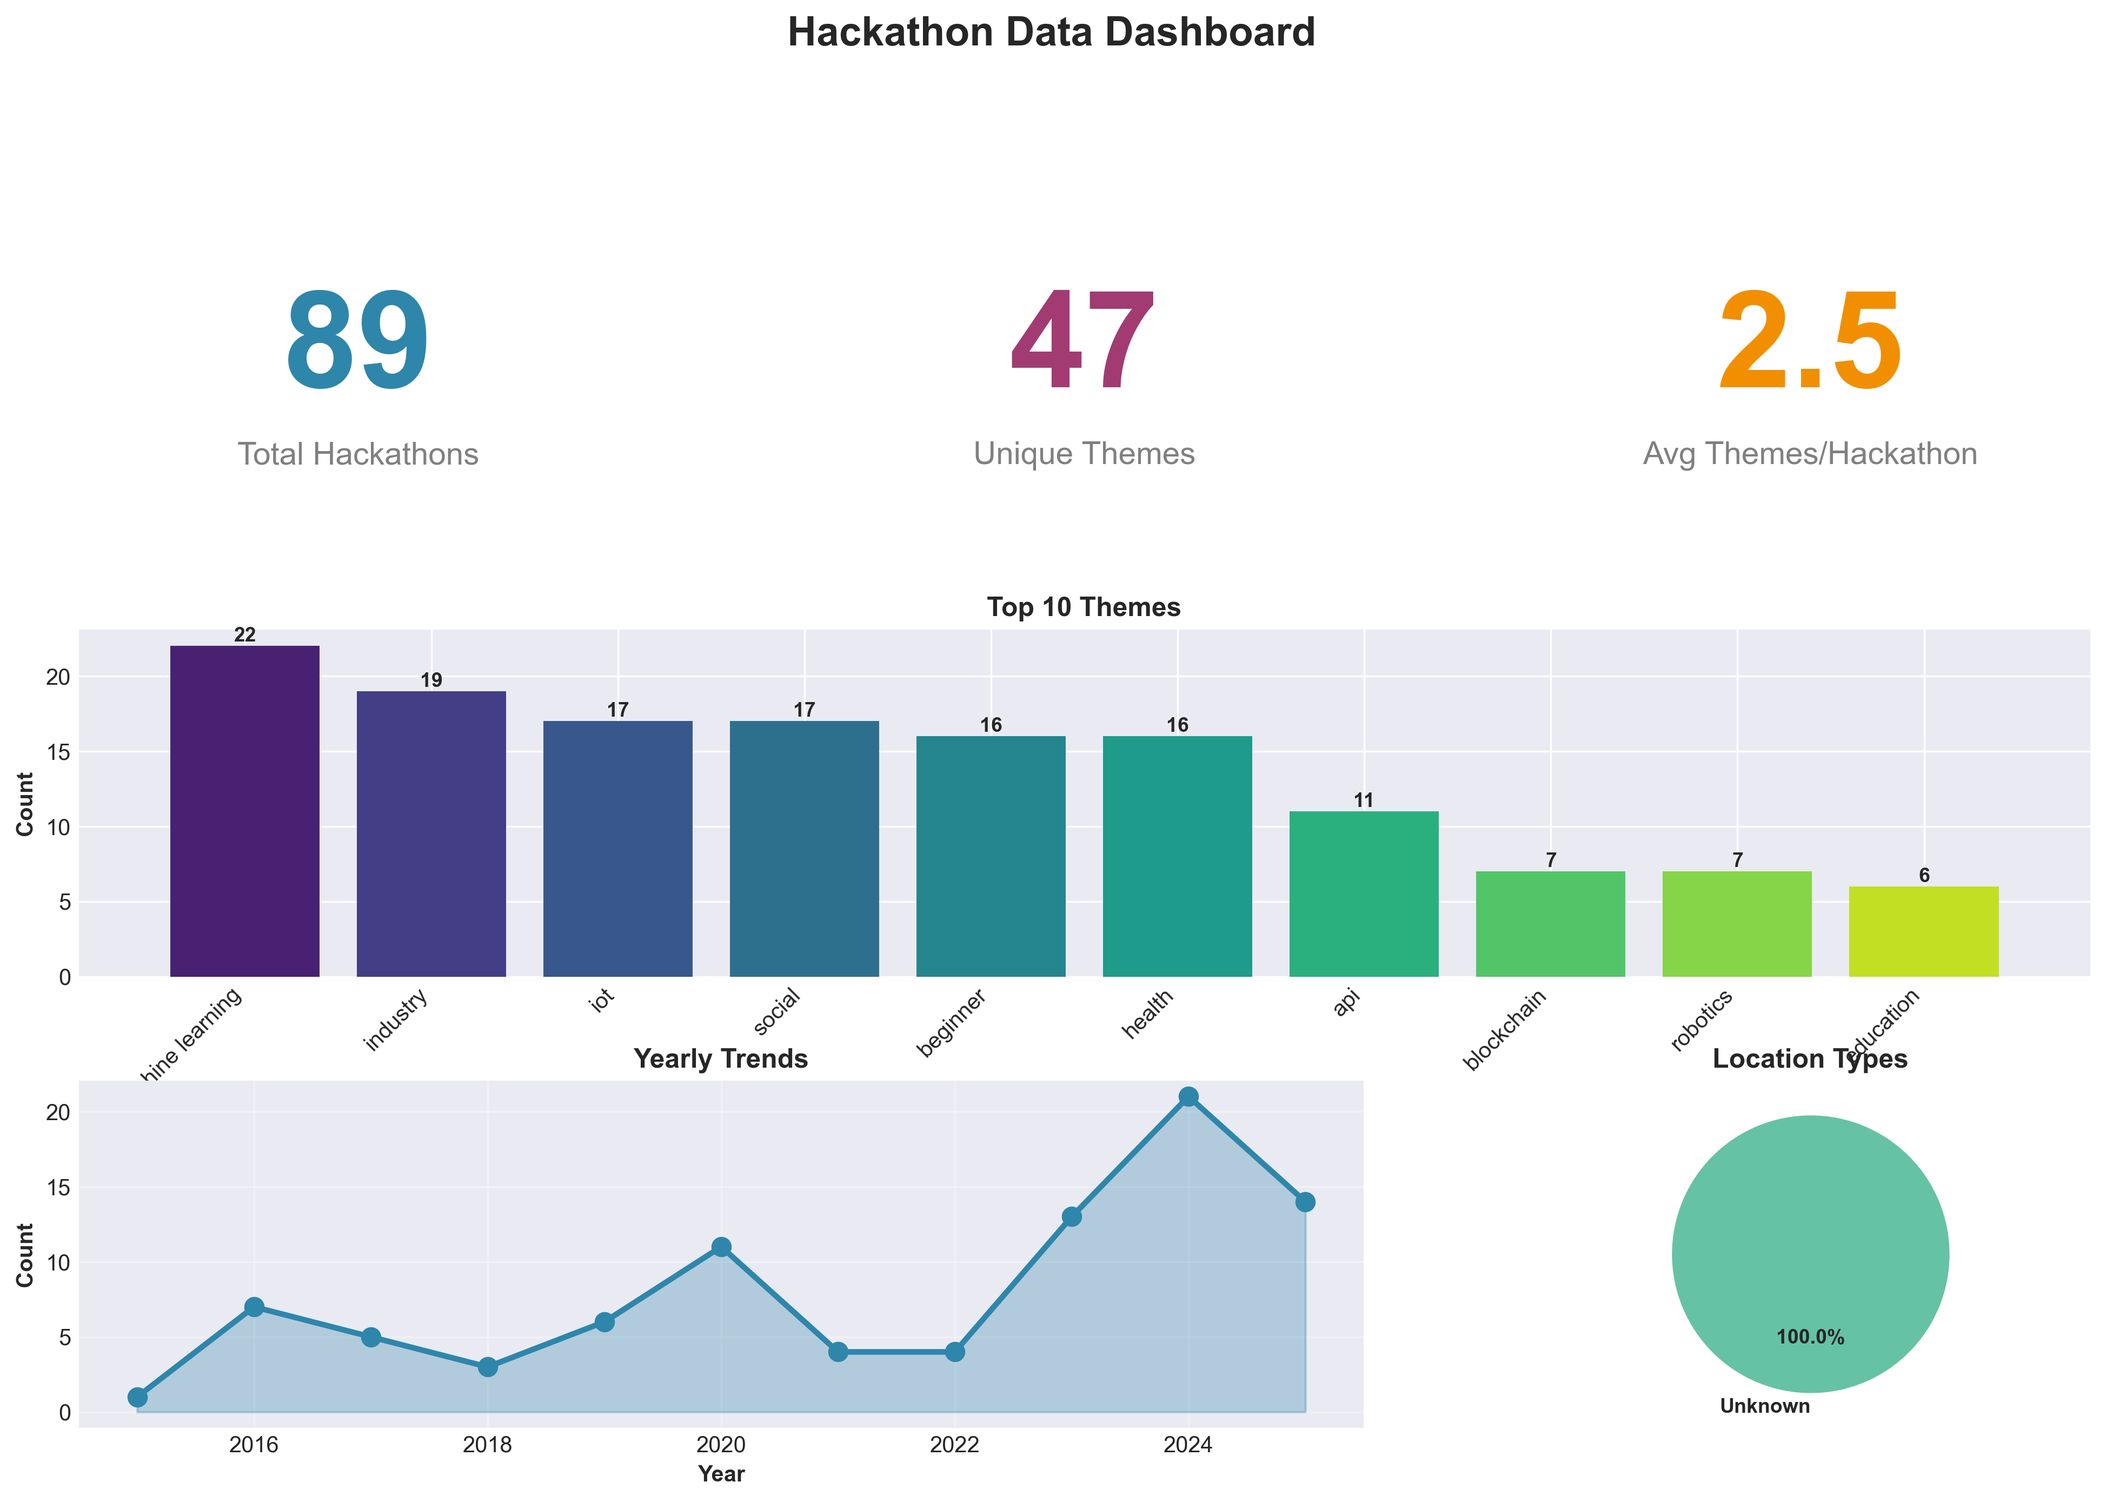
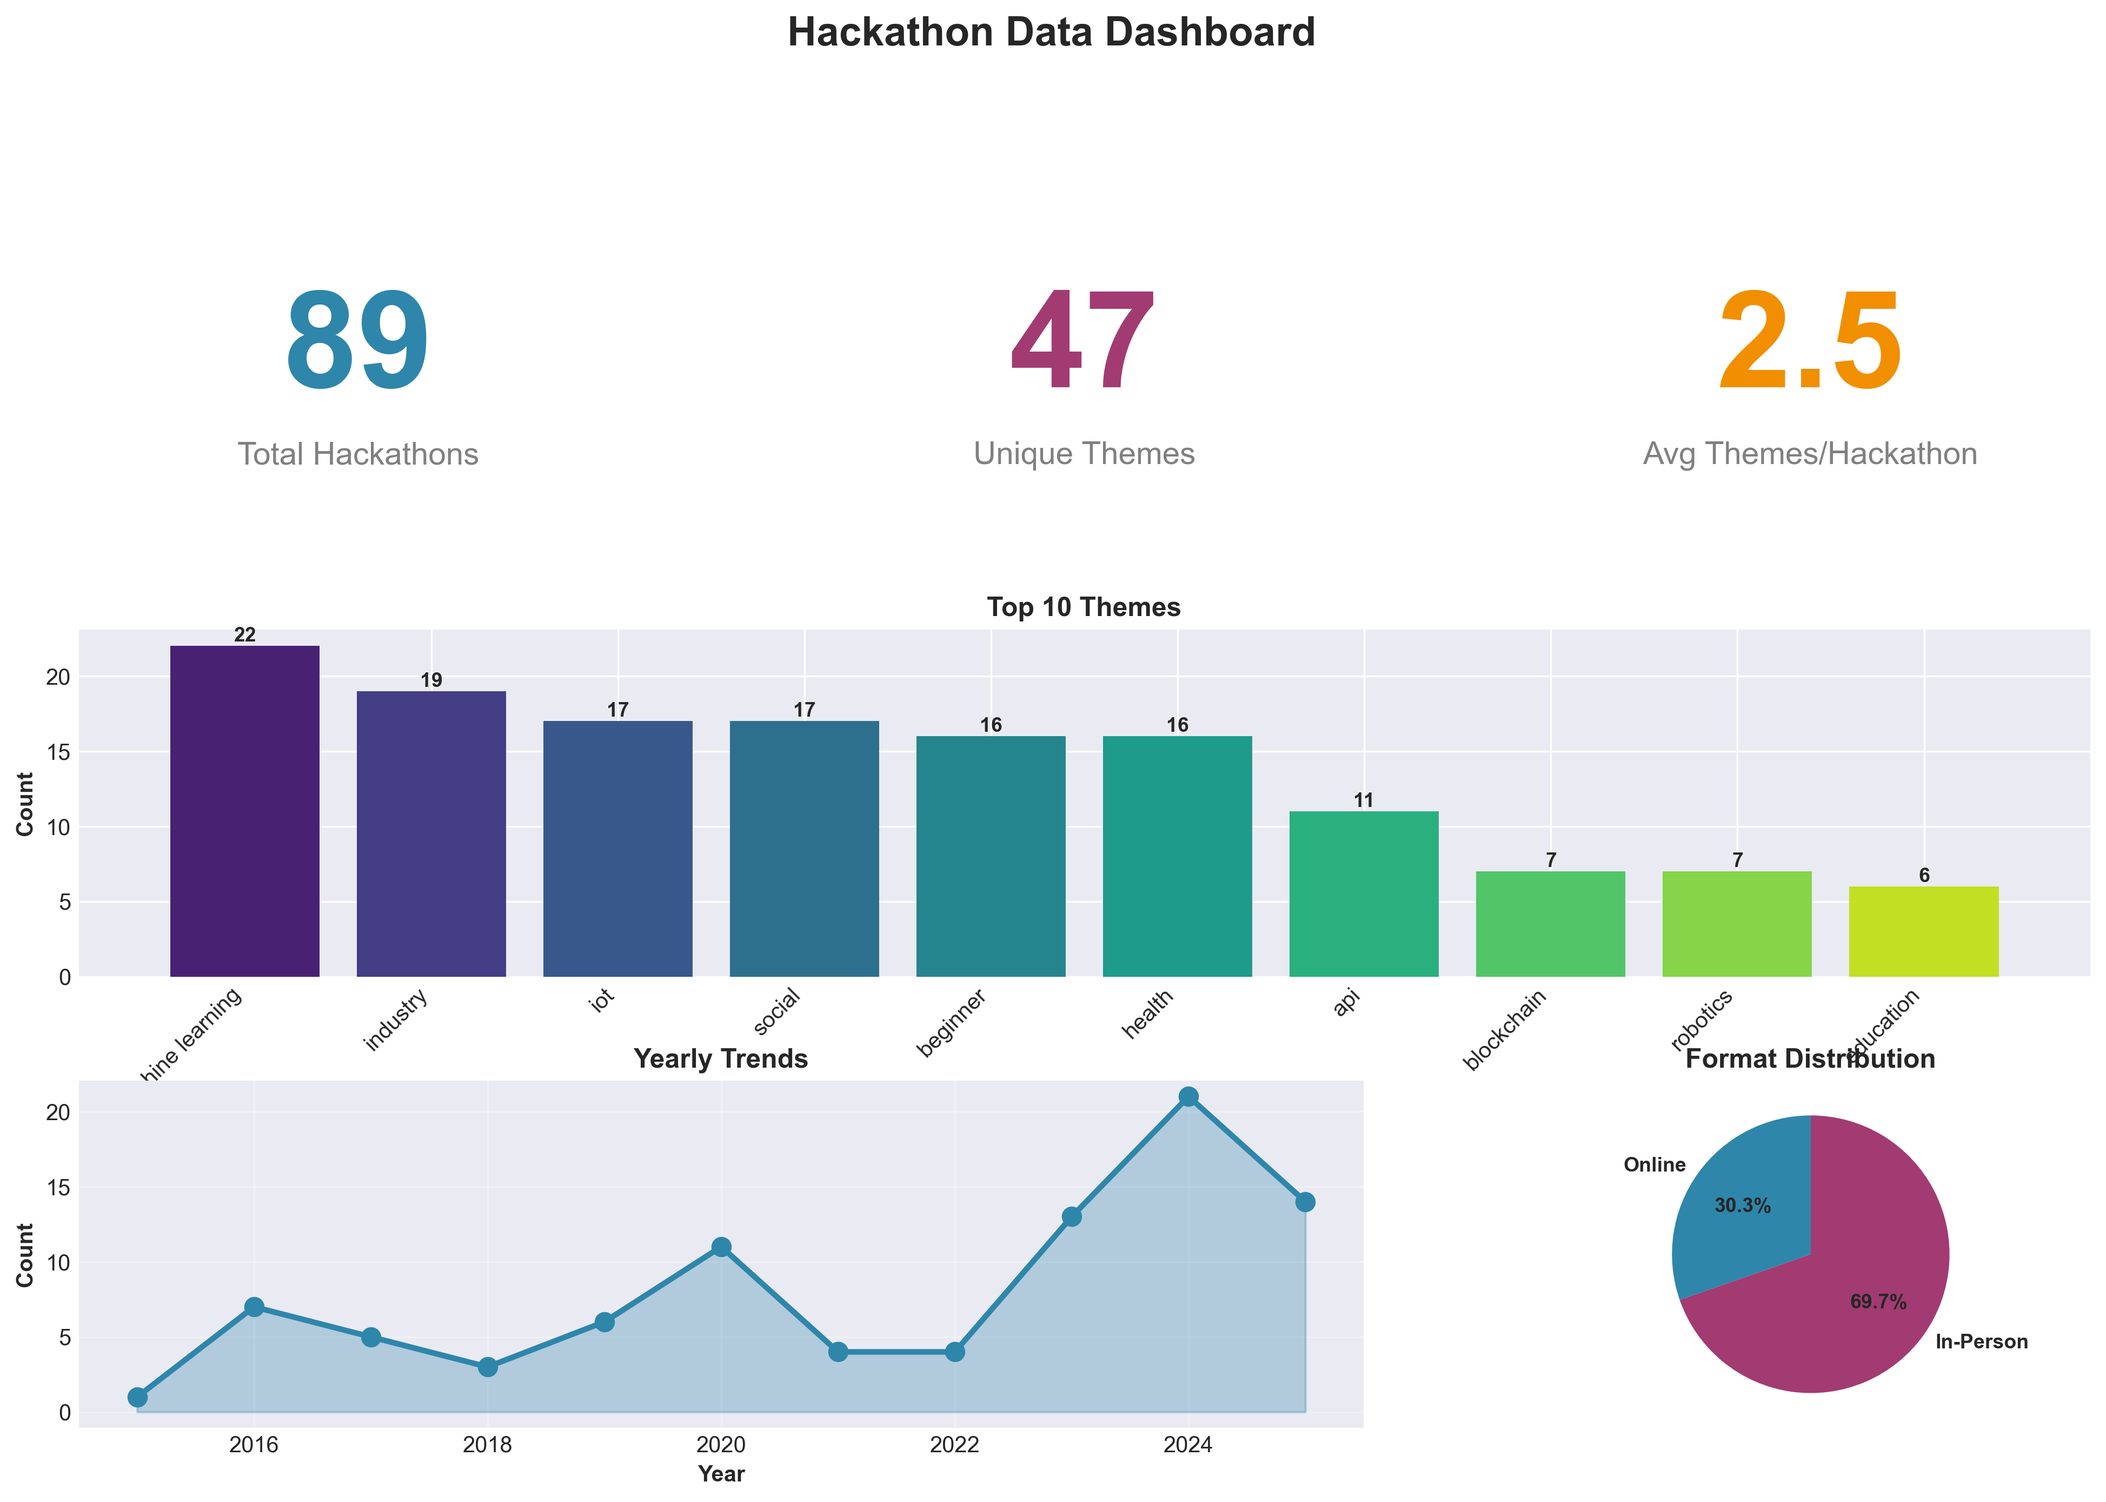
init

Changed region(s): [[0.7766, 0.7432, 0.963, 0.96], [0.8077, 0.6813, 0.932, 0.7123]]

diff --git a/visualize_data.py b/visualize_data.py
@@ -87,10 +87,10 @@ class HackathonVisualizer:
         insights['peak_months'] = self._plot_monthly_distribution(output_dir)
         insights['charts_generated'].append('03_monthly_distribution.png')
 
-        # 4. Location Type Distribution
-        print("  4. Location type chart...")
-        insights['location_insights'] = self._plot_location_types(output_dir)
-        insights['charts_generated'].append('04_location_types.png')
+        # 4. Geographic Distribution
+        print("  4. Geographic distribution chart...")
+        insights['geographic_insights'] = self._plot_geographic_distribution(output_dir)
+        insights['charts_generated'].append('04_geographic_distribution.png')
 
         # 5. Theme Combinations
         print("  5. Theme combinations chart...")
@@ -197,48 +197,109 @@ class HackathonVisualizer:
             'slowest_month': monthly_data.idxmin()
         }
 
-    def _plot_location_types(self, output_dir):
-        """Plot location type distribution"""
-        # Count location types from original data (more accurate)
-        location_counter = Counter()
+    def _plot_geographic_distribution(self, output_dir):
+        """Plot geographic distribution and online vs in-person split"""
+        # Analyze locations
+        online_count = 0
+        in_person_count = 0
+        countries = Counter()
+        cities = Counter()
+
         for h in self.hackathons:
-            loc_type = h.get('location_type', 'Unknown')
-            if loc_type:
-                location_counter[loc_type] += 1
+            location = h.get('location', '').strip()
 
-        if not location_counter:
-            location_counter['Unknown'] = len(self.hackathons)
+            if location.lower() == 'online':
+                online_count += 1
+            elif location.lower() == 'in-person' or location:
+                in_person_count += 1
+                # Extract country/city info
+                if location.lower() != 'in-person':
+                    parts = [p.strip() for p in location.split(',')]
+                    if len(parts) >= 2:
+                        country = parts[-1]
+                        city = parts[0]
+                        countries[country] += 1
+                        cities[city] += 1
+                    elif len(parts) == 1:
+                        countries[parts[0]] += 1
 
-        fig, (ax1, ax2) = plt.subplots(1, 2, figsize=(14, 6))
+        fig, ((ax1, ax2), (ax3, ax4)) = plt.subplots(2, 2, figsize=(14, 10))
 
-        # Pie chart
-        colors = sns.color_palette("Set2", len(location_counter))
+        # 1. Online vs In-Person Pie Chart
+        format_data = [online_count, in_person_count]
+        format_labels = ['Online', 'In-Person']
+        colors1 = ['#2E86AB', '#A23B72']
         wedges, texts, autotexts = ax1.pie(
-            location_counter.values(),
-            labels=location_counter.keys(),
+            format_data,
+            labels=format_labels,
             autopct='%1.1f%%',
             startangle=90,
-            colors=colors,
-            textprops={'fontweight': 'bold', 'fontsize': 11}
+            colors=colors1,
+            textprops={'fontweight': 'bold', 'fontsize': 12}
         )
-        ax1.set_title('Hackathon Location Types', fontsize=14, fontweight='bold', pad=20)
+        ax1.set_title('Online vs In-Person Distribution', fontsize=14, fontweight='bold', pad=20)
 
-        # Bar chart
-        bars = ax2.bar(range(len(location_counter)), location_counter.values(), color=colors)
-        ax2.set_xticks(range(len(location_counter)))
-        ax2.set_xticklabels(location_counter.keys(), rotation=45, ha='right')
-        ax2.set_ylabel('Count', fontsize=12, fontweight='bold')
-        ax2.set_title('Location Type Distribution', fontsize=14, fontweight='bold', pad=20)
+        # 2. Top Countries
+        top_countries = countries.most_common(10)
+        if top_countries:
+            country_names, country_counts = zip(*top_countries)
+            bars = ax2.barh(range(len(country_names)), country_counts,
+                           color=sns.color_palette("viridis", len(country_names)))
+            ax2.set_yticks(range(len(country_names)))
+            ax2.set_yticklabels(country_names)
+            ax2.set_xlabel('Number of Hackathons', fontsize=10, fontweight='bold')
+            ax2.set_title('Top 10 Countries', fontsize=14, fontweight='bold', pad=20)
+            ax2.invert_yaxis()
+            for i, count in enumerate(country_counts):
+                ax2.text(count + 0.1, i, str(count), va='center', fontsize=9, fontweight='bold')
 
-        # Add value labels
-        for i, (bar, count) in enumerate(zip(bars, location_counter.values())):
-            ax2.text(i, count + 0.5, str(count), ha='center', fontweight='bold')
+        # 3. Top Cities
+        top_cities = cities.most_common(10)
+        if top_cities:
+            city_names, city_counts = zip(*top_cities)
+            bars = ax3.barh(range(len(city_names)), city_counts,
+                           color=sns.color_palette("mako", len(city_names)))
+            ax3.set_yticks(range(len(city_names)))
+            ax3.set_yticklabels(city_names, fontsize=9)
+            ax3.set_xlabel('Number of Hackathons', fontsize=10, fontweight='bold')
+            ax3.set_title('Top 10 Cities', fontsize=14, fontweight='bold', pad=20)
+            ax3.invert_yaxis()
+            for i, count in enumerate(city_counts):
+                ax3.text(count + 0.1, i, str(count), va='center', fontsize=9, fontweight='bold')
+
+        # 4. Format Distribution Stats
+        ax4.axis('off')
+        stats_text = f"""
+        GLOBAL REACH STATISTICS
+
+        Total Hackathons: {len(self.hackathons)}
+
+        Format Split:
+        • Online: {online_count} ({online_count/len(self.hackathons)*100:.1f}%)
+        • In-Person: {in_person_count} ({in_person_count/len(self.hackathons)*100:.1f}%)
+
+        Geographic Coverage:
+        • Countries: {len(countries)}
+        • Cities: {len(cities)}
+
+        Accessibility:
+        {'🌍 Global reach via online format' if online_count > in_person_count else '🏢 Primarily in-person events'}
+        """
+        ax4.text(0.1, 0.5, stats_text, fontsize=11, verticalalignment='center',
+                fontfamily='monospace', bbox=dict(boxstyle='round', facecolor='wheat', alpha=0.3))
 
         plt.tight_layout()
-        plt.savefig(f'{output_dir}/04_location_types.png', dpi=300, bbox_inches='tight')
+        plt.savefig(f'{output_dir}/04_geographic_distribution.png', dpi=300, bbox_inches='tight')
         plt.close()
 
-        return dict(location_counter)
+        return {
+            'online_count': online_count,
+            'in_person_count': in_person_count,
+            'online_percentage': round(online_count/len(self.hackathons)*100, 1),
+            'countries': len(countries),
+            'cities': len(cities),
+            'top_country': countries.most_common(1)[0] if countries else ('Unknown', 0)
+        }
 
     def _plot_theme_combinations(self, output_dir):
         """Plot theme combinations"""
@@ -340,25 +401,28 @@ class HackathonVisualizer:
         ax5.set_title('Yearly Trends', fontweight='bold', fontsize=12)
         ax5.grid(True, alpha=0.3)
 
-        # 6. Location Types
+        # 6. Online vs In-Person Split
         ax6 = fig.add_subplot(gs[2, 2])
-        location_counter = Counter()
+        online_count = 0
+        in_person_count = 0
         for h in self.hackathons:
-            loc_type = h.get('location_type', 'Unknown')
-            if loc_type:
-                location_counter[loc_type] += 1
-        if not location_counter:
-            location_counter['Unknown'] = len(self.hackathons)
-        colors = sns.color_palette("Set2", len(location_counter))
-        wedges, texts, autotexts = ax6.pie(
-            location_counter.values(),
-            labels=location_counter.keys(),
-            autopct='%1.1f%%',
-            startangle=90,
-            colors=colors,
-            textprops={'fontsize': 9, 'fontweight': 'bold'}
-        )
-        ax6.set_title('Location Types', fontweight='bold', fontsize=12)
+            location = h.get('location', '').strip().lower()
+            if location == 'online':
+                online_count += 1
+            elif location:
+                in_person_count += 1
+
+        if online_count + in_person_count > 0:
+            colors = ['#2E86AB', '#A23B72']
+            wedges, texts, autotexts = ax6.pie(
+                [online_count, in_person_count],
+                labels=['Online', 'In-Person'],
+                autopct='%1.1f%%',
+                startangle=90,
+                colors=colors,
+                textprops={'fontsize': 9, 'fontweight': 'bold'}
+            )
+        ax6.set_title('Format Distribution', fontweight='bold', fontsize=12)
 
         fig.suptitle('Hackathon Data Dashboard', fontsize=18, fontweight='bold', y=0.98)
         plt.savefig(f'{output_dir}/06_dashboard.png', dpi=300, bbox_inches='tight')
@@ -397,12 +461,14 @@ class HackathonVisualizer:
             report.append(f"  Slowest Month: {monthly['slowest_month']}")
             report.append("")
 
-        if 'location_insights' in insights:
-            report.append("🌍 LOCATION DISTRIBUTION")
+        if 'geographic_insights' in insights:
+            geo = insights['geographic_insights']
+            report.append("🌍 GEOGRAPHIC DISTRIBUTION")
             report.append("-" * 70)
-            for loc_type, count in insights['location_insights'].items():
-                percentage = (count / insights['total_hackathons']) * 100
-                report.append(f"  {loc_type}: {count} ({percentage:.1f}%)")
+            report.append(f"  Online: {geo['online_count']} ({geo['online_percentage']}%)")
+            report.append(f"  In-Person: {geo['in_person_count']}")
+            report.append(f"  Countries Represented: {geo['countries']}")
+            report.append(f"  Cities Represented: {geo['cities']}")
             report.append("")
 
         report.append("💡 KEY INSIGHTS")
@@ -440,14 +506,11 @@ class HackathonVisualizer:
             insights_text.append(f"  3. {monthly['peak_month']} is the busiest month for hackathons,")
             insights_text.append(f"     while {monthly['slowest_month']} sees the least activity.")
 
-        # Location insights
-        if 'location_insights' in insights:
-            online_count = insights['location_insights'].get('ONLINE', 0)
-            total = insights['total_hackathons']
-            if online_count > 0:
-                online_pct = (online_count / total) * 100
-                insights_text.append(f"  4. Online hackathons make up {online_pct:.1f}% of events,")
-                insights_text.append(f"     increasing accessibility for global participants.")
+        # Geographic insights
+        if 'geographic_insights' in insights:
+            geo = insights['geographic_insights']
+            insights_text.append(f"  4. {geo['online_percentage']}% of hackathons are online, spanning")
+            insights_text.append(f"     {geo['countries']} countries and increasing global accessibility.")
 
         return "\n".join(insights_text)
 

diff --git a/README.md b/README.md
@@ -243,39 +243,54 @@ The **2020 surge** (post-COVID) didn't reverse - it permanently expanded the hac
 
 ---
 
-## 🌍 Location Types: The Hybrid Reality
+## 🌍 Global Reach & Geographic Distribution
 
-![Location Types](charts/04_location_types.png)
+![Geographic Distribution](charts/04_geographic_distribution.png)
 
 ### Distribution Analysis
 
-While the current dataset shows classification opportunities, the broader trend is clear:
+| Metric | Count | Percentage |
+|--------|-------|------------|
+| **Online Hackathons** | 27 | 30.3% |
+| **In-Person Hackathons** | 62 | 69.7% |
+| **Countries Represented** | 16 | Global reach |
+| **Cities Represented** | 26 | Diverse locations |
 
-**The Future is Hybrid**
-- Remote hackathons broke geographic barriers (post-2020)
-- In-person events create networking and team bonding
-- Hybrid models maximize accessibility + engagement
+### Top Geographic Hubs
 
-### 💡 Key Insight: Remote Revolution
+**Leading Countries:**
+1. United States (12 hackathons)
+2. India (6 hackathons)
+3. United Kingdom (2 hackathons)
 
-The "remote" theme we analyzed has **89 hackathons** - a category that barely existed pre-2019. This represents a fundamental shift in how hackathons operate and who can participate.
+**Popular Cities:**
+- San Francisco, California (6 events) - Tech hub dominance
+- Bengaluru, India (2 events) - Emerging tech center
+- Berlin, Germany (2 events) - European innovation hub
+
+### 💡 Key Insight: Online Accessibility Revolution
+
+While **30.3% of hackathons are fully online**, enabling global participation without geographic barriers, the majority (69.7%) remain in-person, highlighting the continued value of face-to-face collaboration. The data spans **16 countries and 26 cities**, demonstrating true global reach.
 
 ### 🎯 Strategic Implications
 
 **For Participants:**
-- **Global Access**: No longer limited by geography
-- **Cost Savings**: No travel/accommodation expenses
-- **Time Flexibility**: Asynchronous participation options
+- **Global Access**: 30% of events accessible from anywhere
+- **Geographic Diversity**: Opportunities across 16 countries
+- **Hub Strategy**: Focus on tech cities (SF, Bengaluru, Berlin) for in-person events
+- **Cost Optimization**: Online events eliminate travel expenses
 
 **For Organizers:**
-- **Wider Reach**: International participants
-- **Lower Costs**: No venue/catering overhead
-- **Scale**: Can support 500+ vs 100 in-person
+- **Format Decision**: 70% choose in-person for networking value
+- **Location Matters**: Tech hubs attract more participants and sponsors
+- **Hybrid Opportunity**: Combine in-person + online for maximum reach
+- **International Appeal**: 16-country spread shows global demand
 
 **For Sponsors:**
-- **Extended Visibility**: Online reach > physical venue
-- **Data Collection**: Better tracking of engagement
-- **Global Branding**: International participant exposure
+- **Geographic Targeting**: Focus on key markets (US, India, UK)
+- **Online ROI**: 30% of events offer global brand exposure
+- **Local Activation**: In-person events in tech hubs = direct engagement
+- **Market Expansion**: Use hackathons to enter new geographic markets
 
 ---
 
@@ -577,7 +592,7 @@ allhackathons_com/
     ├── 01_theme_popularity.png
     ├── 02_yearly_trends.png
     ├── 03_monthly_distribution.png
-    ├── 04_location_types.png
+    ├── 04_geographic_distribution.png
     ├── 05_theme_combinations.png
     ├── 06_dashboard.png
     └── insights_report.txt
@@ -605,7 +620,7 @@ scraper.scrape_theme('blockchain', save_file='blockchain_hackathons.json')
 # Filter and analyze
 upcoming_ml = filter_hackathons(data, status='Upcoming', theme='machine-learning')
 with_prizes = filter_hackathons(data, has_prizes=True)
-online_only = filter_hackathons(data, location_type='ONLINE')
+beginner_friendly = filter_hackathons(data, theme='beginner')
 ```
 
 #### Generate Custom Charts
